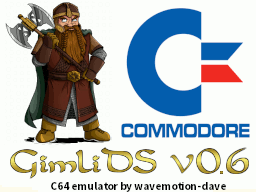
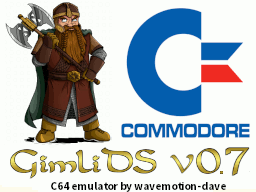
Version 0.7 with more SID filter improvements.

Changed region(s): [[0.875, 0.75, 1.0, 0.9375]]

diff --git a/arm9/source/SID.cpp b/arm9/source/SID.cpp
@@ -75,9 +75,7 @@ uint32_t sid_random_seed      __attribute__((section(".dtcm")));  // Random seed
  */
 
 #define CALC_RESONANCE_LP(f) (227.755 - 1.7635 * f - 0.0176385 * f * f + 0.00333484 * f * f * f)
-
 #define CALC_RESONANCE_HP(f) (366.374 - 14.0052 * f + 0.603212 * f * f - 0.000880196 * f * f * f)
-
 
 /*
  *  Random number generator for noise waveform
@@ -362,6 +360,7 @@ private:
 
     uint8 f_type;                   // Filter type
     uint8 f_freq;                   // SID filter frequency (upper 8 bits)
+    uint8 f_freq_low;               // SID filter frequency (lower 4 bits)
     uint8 f_res;                    // Filter resonance (0..15)
 #ifdef USE_FIXPOINT_MATHS
     FixPoint f_ampl;
@@ -369,16 +368,16 @@ private:
     int32 xn1, xn2, yn1, yn2;       // can become very large
     FixPoint sidquot;
 #ifdef PRECOMPUTE_RESONANCE
-    FixPoint resonanceLP[256];
-    FixPoint resonanceHP[256];
+    FixPoint resonanceLP[257];
+    FixPoint resonanceHP[257];
 #endif
 #else
     float f_ampl;                   // IIR filter input attenuation
     float d1, d2, g1, g2;           // IIR filter coefficients
     float xn1, xn2, yn1, yn2;       // IIR filter previous input/output signal
 #ifdef PRECOMPUTE_RESONANCE
-    float resonanceLP[256];         // shortcut for calc_filter
-    float resonanceHP[256];
+    float resonanceLP[257];         // shortcut for calc_filter
+    float resonanceHP[257];
 #endif
 #endif
     int16 *sound_buffer;
@@ -733,7 +732,7 @@ DigitalRenderer::DigitalRenderer()
 #ifdef PRECOMPUTE_RESONANCE
 #ifdef USE_FIXPOINT_MATHS
     // slow floating point doesn't matter much on startup!
-    for (int i=0; i<256; i++) {
+    for (int i=0; i<257; i++) {
       resonanceLP[i] = FixNo(CALC_RESONANCE_LP(i));
       resonanceHP[i] = FixNo(CALC_RESONANCE_HP(i));
     }
@@ -742,7 +741,7 @@ DigitalRenderer::DigitalRenderer()
     // compute lookup table for sin and cos
     InitFixSinTab();
 #else
-    for (int i=0; i<256; i++) {
+    for (int i=0; i<257; i++) {
       resonanceLP[i] = CALC_RESONANCE_LP(i);
       resonanceHP[i] = CALC_RESONANCE_HP(i);
     }
@@ -778,6 +777,7 @@ void DigitalRenderer::Reset(void)
 
     f_type = FILT_NONE;
     f_freq = f_res = 0;
+    f_freq_low = 0;
 #ifdef USE_FIXPOINT_MATHS
     f_ampl = FixNo(1);
     d1 = d2 = g1 = g2 = 0;
@@ -873,11 +873,14 @@ void DigitalRenderer::WriteRegister(uint16 adr, uint8 byte)
             voice[v].r_sub = EGTable[byte & 0xf];
             break;
 
-        case 22:
-            if (byte != f_freq) {
-                f_freq = byte;
-                calc_filter();
-            }
+        case 21: // Filter Frequency - lower 3 bits
+            f_freq_low = ((byte & 0x7) > 3) ? 1:0;
+            calc_filter();
+            break;
+            
+        case 22: // Filter Frequency - upper 8 bits
+            f_freq = byte;
+            calc_filter();
             break;
 
         case 23:
@@ -954,13 +957,13 @@ void DigitalRenderer::calc_filter(void)
     // Calculate resonance frequency
     if (f_type == FILT_LP || f_type == FILT_LPBP)
 #ifdef PRECOMPUTE_RESONANCE
-        fr = resonanceLP[f_freq];
+        fr = resonanceLP[f_freq + f_freq_low];
 #else
         fr = CALC_RESONANCE_LP(f_freq);
 #endif
     else
 #ifdef PRECOMPUTE_RESONANCE
-        fr = resonanceHP[f_freq];
+        fr = resonanceHP[f_freq+f_freq_low];
 #else
         fr = CALC_RESONANCE_HP(f_freq);
 #endif

diff --git a/arm9/source/C64.cpp b/arm9/source/C64.cpp
@@ -860,7 +860,7 @@ ITCM_CODE void C64::VBlank(bool draw_frame)
         {
             if (ThePrefs.TrueDrive && TheDisplay->led_state[0]) break; // If reading the drive in 'true drive' mode, just plow along...
             asm("nop");
-            break;  // Uncomment this for full speed...
+            //break;  // Uncomment this for full speed...
         }
 
         frames_per_sec++;

diff --git a/arm9/source/Display.cpp b/arm9/source/Display.cpp
@@ -447,7 +447,7 @@ int i = 0;
 int debug[8]={0,0,0,0,0,0,0,0};
 void C64Display::Speedometer(int speed)
 {
-#if 1
+#if 0
     char tmp[34];
 
     sprintf(tmp, "%-8d", speed);
